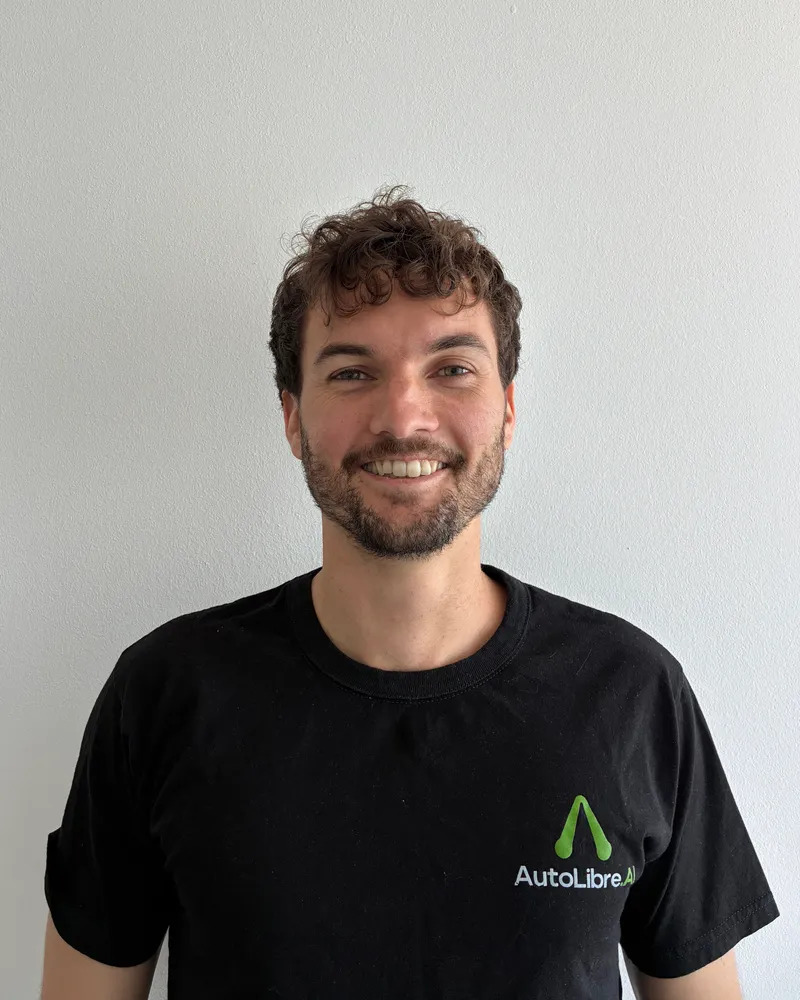
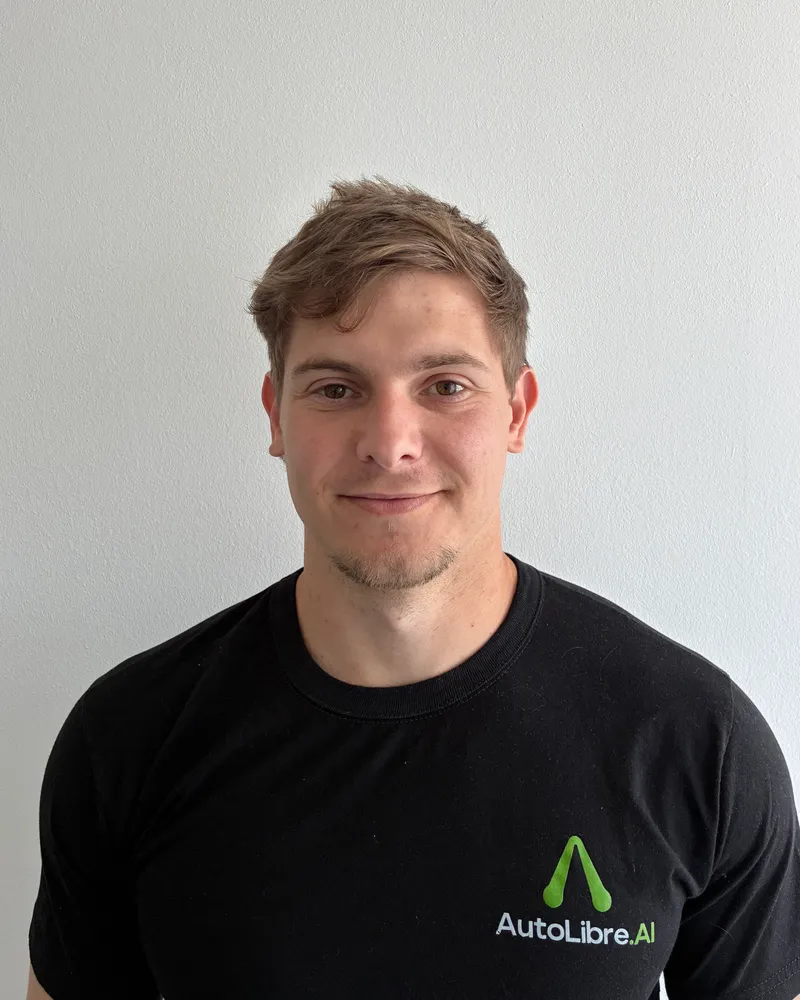
feat(about): sumar foto de Matías y corregir fotos intercambiadas
Agrega la foto de Matías García Guevara, corrige las fotos de Nicolás Leunda y Ramiro Sarasola que estaban cruzadas y actualiza el lastModified de /sobre-nosotros en el sitemap.

Changed region(s): [[0.3125, 0.155, 1.0, 1.0], [0.0312, 0.682, 0.2188, 1.0], [0.125, 0.589, 0.3125, 0.682]]

diff --git a/lib/content/about.ts b/lib/content/about.ts
@@ -113,6 +113,12 @@ const members = [
     name: "Matías García Guevara",
     role: "Cofundador y CFO: finanzas, estrategia, seguros y financiación",
     founder: true,
+    photo: {
+      src: "/images/about/equipo-matias-garcia-guevara.webp",
+      alt: "Matías García Guevara, cofundador y CFO de AutoLibre, sonríe con una remera negra de AutoLibre.AI.",
+      width: 800,
+      height: 1000,
+    },
   },
   {
     id: "ramiro-sarasola",

diff --git a/app/sitemap.ts b/app/sitemap.ts
@@ -65,7 +65,7 @@ const routes = [
   },
   {
     path: "/sobre-nosotros",
-    lastModified: "2026-10-29",
+    lastModified: "2026-11-19",
     changeFrequency: "monthly",
     priority: 0.6,
   },
